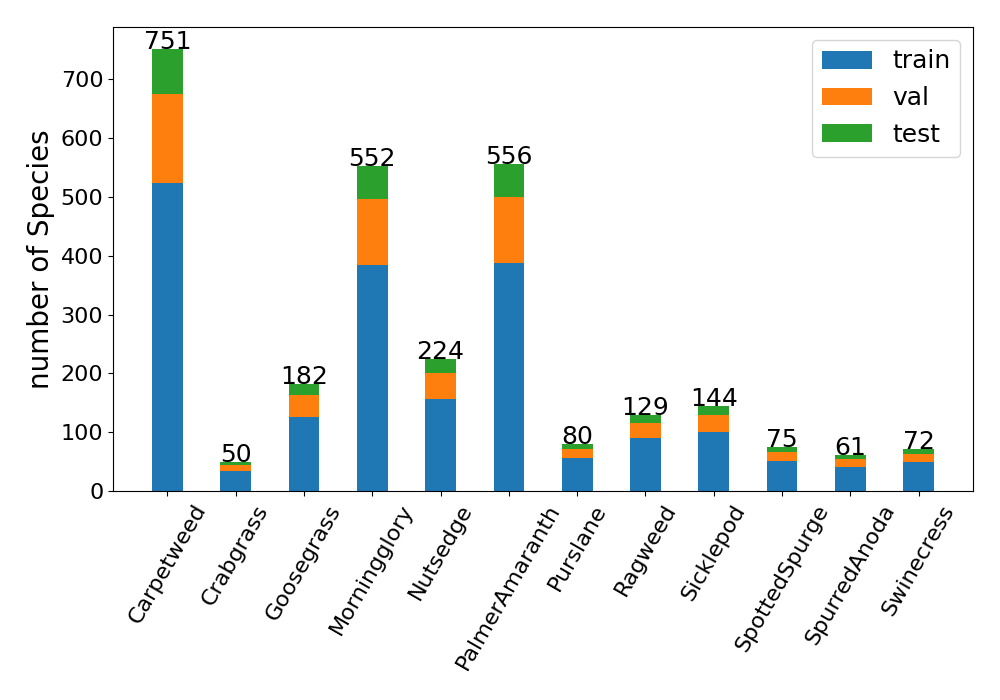
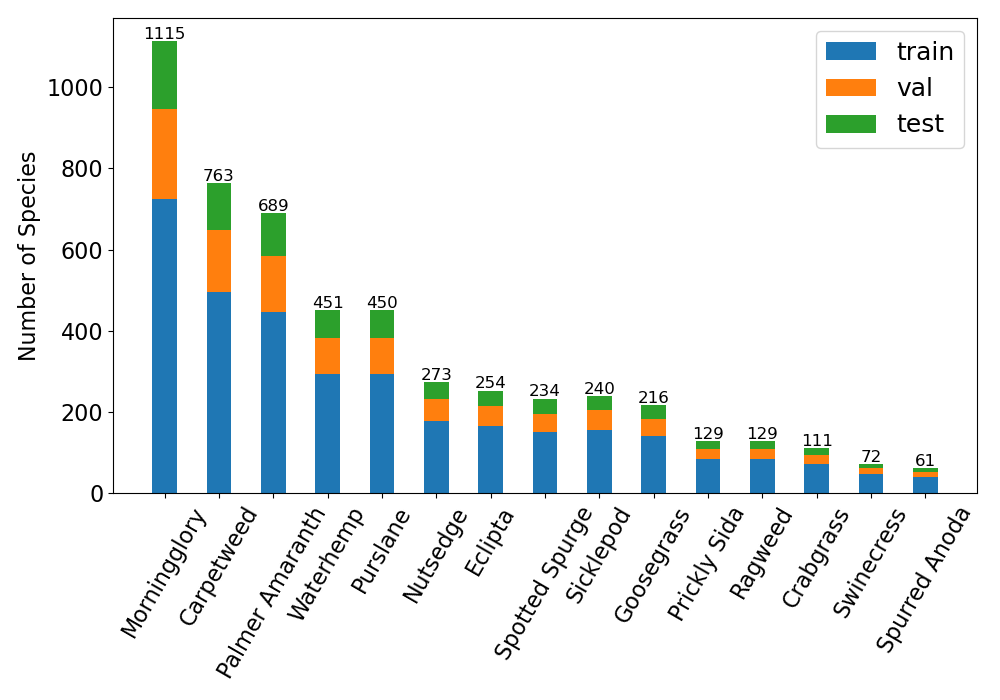
Add files via upload

diff --git a/common/plot_bar.py b/common/plot_bar.py
@@ -1,25 +1,26 @@
-
 import numpy as np
 import matplotlib.pyplot as plt
-plt.rcParams.update({'font.size': 18})
+
+plt.rcParams.update({'font.size': 12})
 
 
 # function to add value labels
-def addlabels(x,y):
+def addlabels(x, y):
     for i in range(len(x)):
-        plt.text(i, y[i], y[i], ha='center')
+        plt.text(i, y[i] + 5, y[i], ha='center')
 
 
-species = ['Carpetweed', 'Crabgrass', 'Goosegrass', 'Morningglory', 'Nutsedge', 'PalmerAmaranth',
-               'Purslane', 'Ragweed', 'Sicklepod', 'SpottedSpurge', 'SpurredAnoda', 'Swinecress']
+species = ['Morningglory', 'Carpetweed', 'Palmer Amaranth', 'Waterhemp', 'Purslane', 'Nutsedge', 'Eclipta',
+           'Spotted Spurge', 'Sicklepod', 'Goosegrass', 'Prickly Sida', 'Ragweed', 'Crabgrass', 'Swinecress', 'Spurred Anoda']
 
-N = 12
+N = 15
 
-train = (524, 35, 126, 385, 156, 388, 56, 90, 100, 52, 41, 49)
-val = (151, 10, 37, 111, 45, 112, 16, 26, 29, 15, 13, 15)
-bottom = (675,  45, 163, 496, 201, 500,  72, 116, 129,  67,  54,  64)
-test = (76, 5, 19, 56, 23, 56, 8, 13, 15, 8, 7, 8)
-nums = [751, 50, 182, 552, 224, 556, 80, 129, 144, 75, 61, 72]
+nums = (1115, 763, 689, 451, 450, 273, 254, 234, 240, 216, 129, 129, 111, 72, 61)
+train = (724, 495, 447, 292, 292, 177, 164, 151, 156, 139, 83, 83, 71, 46, 38)
+val = (223, 153, 138, 91, 90, 55, 51, 47, 48, 44, 26, 26, 23, 15, 13)
+bottom = (947, 648, 585, 383, 382, 232, 213, 195, 204, 183, 109, 109, 94, 61, 51)
+test = (168, 115, 104, 68, 68, 41, 39, 36, 36, 33, 20, 20, 17, 11, 10)
+
 ind = np.arange(N)
 width = 0.45
 
@@ -28,9 +29,9 @@ p1 = plt.bar(ind, train, width)
 p2 = plt.bar(ind, val, width, bottom=train)
 p3 = plt.bar(ind, test, width, bottom=bottom)
 
-plt.ylabel("number of Species", fontsize=20)
-plt.xticks(ind, ('Carpetweed', 'Crabgrass', 'Goosegrass', 'Morningglory', 'Nutsedge', 'PalmerAmaranth',
-               'Purslane', 'Ragweed', 'Sicklepod', 'SpottedSpurge', 'SpurredAnoda', 'Swinecress'))
+plt.ylabel("Number of Species", fontsize=16)
+plt.xticks(ind, ('Morningglory', 'Carpetweed', 'Palmer Amaranth', 'Waterhemp', 'Purslane', 'Nutsedge', 'Eclipta',
+           'Spotted Spurge', 'Sicklepod', 'Goosegrass', 'Prickly Sida', 'Ragweed', 'Crabgrass', 'Swinecress', 'Spurred Anoda'))
 # plt.yticks(np.arange(0, 81, 10))
 plt.legend(('train', 'val', 'test'), fontsize=18)
 plt.xticks(rotation=60, fontsize=16)
